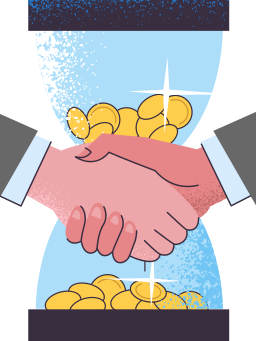
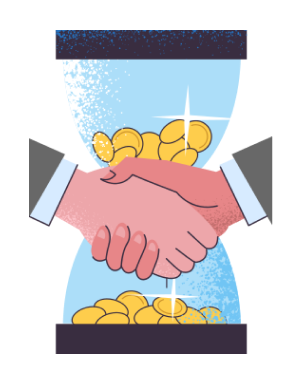
fix: adjust illustration size

diff --git a/src/components/illustrations.ts b/src/components/illustrations.ts
@@ -3,5 +3,6 @@ import styled from "styled-components/native";
 export const Illustration = styled.Image<{ withoutMargin?: boolean }>`
   margin-bottom: ${({ withoutMargin, theme }) =>
     withoutMargin ? "0px" : theme.spacing.xxl};
-  height: 385px;
+  width: 100%;
+  height: 60%;
 `;

diff --git a/src/screens/TeamOptions/styles.ts b/src/screens/TeamOptions/styles.ts
@@ -14,6 +14,4 @@ export const Content = styled.View`
   justify-content: center;
   align-items: center;
   width: 100%;
-
-  background-color: ${({ theme }) => theme.colors.white};
 `;
